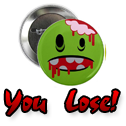
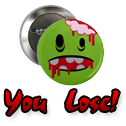
tweaking the win/lose system

diff --git a/app/assets/stylesheets/bootstrap_and_overrides.css.less b/app/assets/stylesheets/bootstrap_and_overrides.css.less
@@ -79,6 +79,6 @@ filter: progid:DXImageTransform.Microsoft.gradient( startColorstr='#5a81a0', end
 
 .center {text-align: center; }
 .score { font-size: 50px; display: inline-block; margin: 0px 20px 0px 20px; border: 5px solid #333; padding: 15px 5px 19px 2px; }
-#winlose { width: 280px; }
+#winlose { width: 280px; background-color: transparent; }
 //.winlose { height: 200px; }
 .thumbnail { border: none; }

diff --git a/app/controllers/fights_controller.rb b/app/controllers/fights_controller.rb
@@ -16,7 +16,12 @@ class FightsController < ApplicationController
 
     @player_score   = @fight.score(@player)
     @opponent_score = @fight.score(@opponent)
-    @winlose        = @player_score > @opponent_score ? "win" : "lose"
+
+    if @player_score.to_i == 0 || @opponent_score.to_i == 0
+      @winlose = ""
+    else
+      @winlose  = @player_score > @opponent_score ? "win" : "lose"
+    end
 
     respond_to do |format|
       format.html
